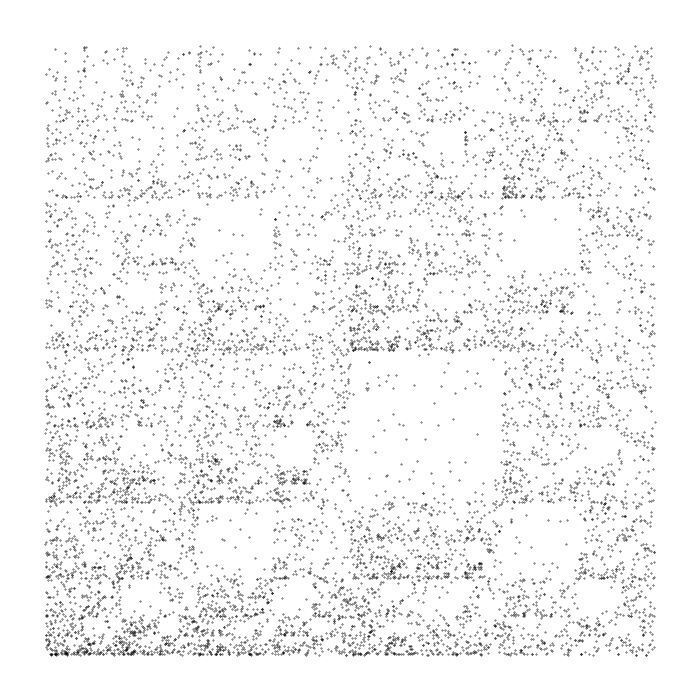
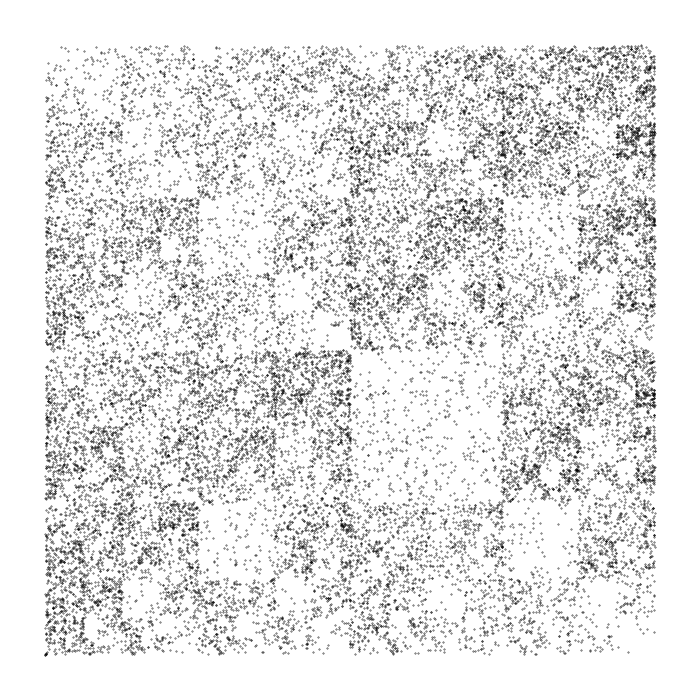
doc added

Changed region(s): [[0.06, 0.06, 0.96, 0.96]]

diff --git a/scripts/CGRfuncs.py b/scripts/CGRfuncs.py
@@ -16,7 +16,7 @@ def seq_generator(pathtofasta):
 
 def generatePoints(dnaSeq):
     '''
-    Dada una secuencia obtiene los puntos mediante
+    Dada una secuencia de caracteres obtiene los puntos mediante
     las reglas del juego del caos
     '''
     pntStack = [(0.5,0.5)]
@@ -45,8 +45,8 @@ def generatePoints(dnaSeq):
 
 def to_cgr(pathtofasta, figname):
     '''
-    De un conjunto de puntos obtiene su representación gráfica y la guarda
-    en el directorio figures
+    Obtiene una secuencia de un archivo fasta, obtiene sus puntos y grafica
+    su CGR
     '''
     pts = generatePoints(seq_generator(pathtofasta))
     #

diff --git a/scripts/Main.py b/scripts/Main.py
@@ -4,4 +4,22 @@ from CGRfuncs import to_cgr
 Clase principal
 '''
 
+'''
+Para generar una CGR únicamente hay que proporcionar la ruta del archivo
+y el nombre de salida
+'''
+
+# Genera test1.png en figures/
 to_cgr('data/raw_data/bat.fasta', 'test1')
+
+# Genera test2.png en figures/
+to_cgr('data/raw_data/sequence.fasta', 'test2')
+
+# Genera test3.png en figures/
+to_cgr('data/raw_data/white-eye.fasta', 'test3')
+
+
+'''
+La idea es poner todos los archivos .fasta en data/ y automatizar la generación
+de sus CGR
+'''
